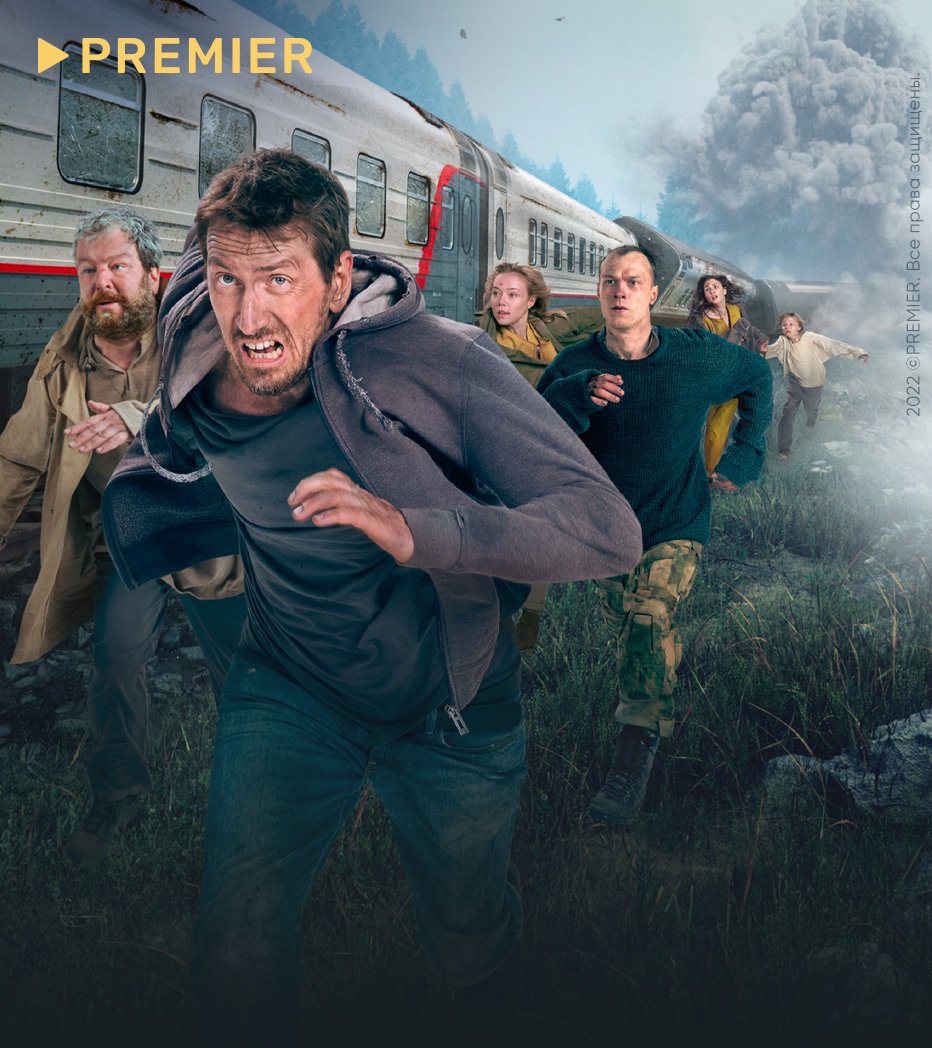
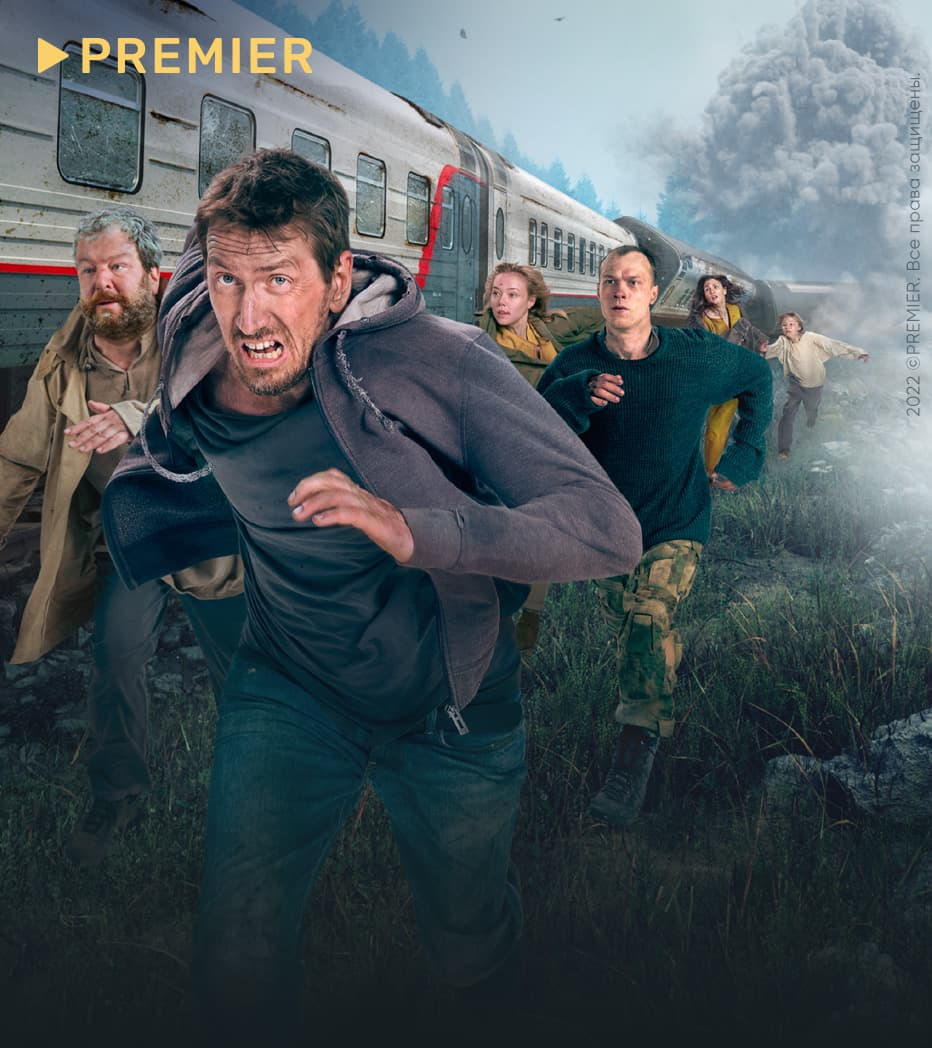
заплатки на ссылки и оптимизация картинок

diff --git a/index.html b/index.html
@@ -224,14 +224,14 @@
                 <div class="container">
                     <h2 class="kino__h2 kino__position">Одна подписка - много сервисов</h2>
                     <ul class="proba">
-                        <li><a href="" class="start width"></a></li>
-                        <li><a href="" class="ivi width"></a></li>
-                        <li><a href="" class="more width"></a></li>
-                        <li><a href="" class="megogo width"></a></li>
-                        <li><a href="" class="okko width"></a></li>
-                        <li><a href="" class="premier width"></a></li>
-                        <li><a href="" class="tvoekino width"></a></li>
-                        <li><a href="" class="armenia width"></a></li>
+                        <li><a href="#" class="start width"></a></li>
+                        <li><a href="#" class="ivi width"></a></li>
+                        <li><a href="#" class="more width"></a></li>
+                        <li><a href="#" class="megogo width"></a></li>
+                        <li><a href="#" class="okko width"></a></li>
+                        <li><a href="#" class="premier width"></a></li>
+                        <li><a href="#" class="tvoekino width"></a></li>
+                        <li><a href="#" class="armenia width"></a></li>
                     </ul>
 
                     <h2 class="kino__h2">
